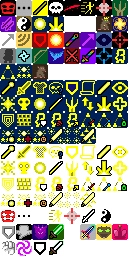
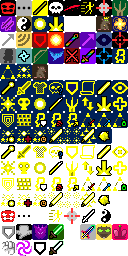
2.2: added assets for t1 cleric spell, metaexpression

Changed region(s): [[0.75, 0.75, 0.875, 0.8125], [0.75, 0.5, 0.875, 0.5625]]

diff --git a/core/src/main/java/com/zrp200/rkpd2/actors/hero/Talent.java b/core/src/main/java/com/zrp200/rkpd2/actors/hero/Talent.java
@@ -254,7 +254,7 @@ public enum Talent {
 	FEIGNED_RETREAT(151, 4), EXPOSE_WEAKNESS(152, 4), COUNTER_ABILITY(153, 4), WARPED_AGGRESSION(imageAt(15, 12), 4),
 
 	//Cleric T1
-	SATIATED_SPELLS(160), HOLY_INTUITION(161), SEARING_LIGHT(162), SHIELD_OF_LIGHT(163),
+	SATIATED_SPELLS(160), HOLY_INTUITION(161), SEARING_LIGHT(162), SHIELD_OF_LIGHT(163), METAEXPRESSION(imageAt(0, 13)),
 	//Cleric T2
 	ENLIGHTENING_MEAL(164), RECALL_INSCRIPTION(165), SUNRAY(166), DIVINE_SENSE(167), BLESS(168),
 	//Cleric T3
